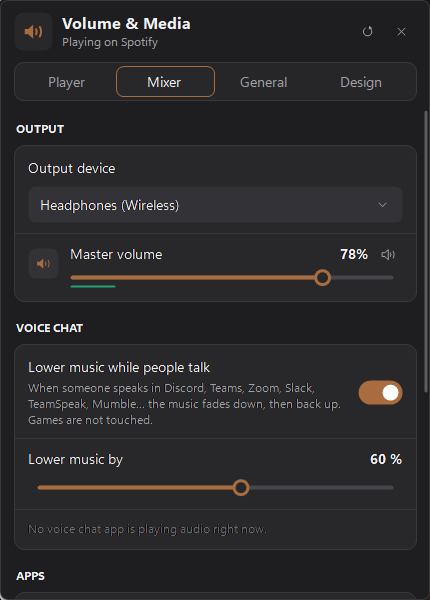
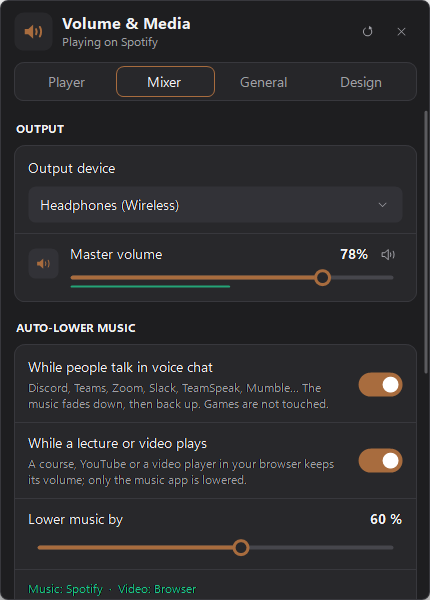
Study mode: music app wins over browser video, auto-lower music during lectures
- A dedicated music app (Spotify, Apple Music, Media Player, Tidal...) is always
  "the music" for the widget, even while a lecture/video plays in a browser, so
  scrolling and muting never touch the course audio.
- New "While a lecture or video plays" auto-lower option (on by default): the
  music fades down while browser/video-player audio plays, with a 4 s hold so
  pauses in speech don't pump the volume. Brief gaps fade back smoothly.
- Mixer tab: "Auto-lower music" card with both triggers and a status line.

diff --git a/src/Volume/AppAudio.cs b/src/Volume/AppAudio.cs
@@ -20,6 +20,7 @@ namespace TaskbarWidgets.Volume
         readonly Control ui;
         readonly Settings S;
         readonly Func<NowPlaying> current;
+        readonly Func<List<NowPlaying>> allMedia;
         List<AppSession> live = new List<AppSession>();
         bool busy;
         readonly Timer refresh = new Timer { Interval = 4000 };
@@ -30,15 +31,15 @@ namespace TaskbarWidgets.Volume
         float baseVol = 1f;       // the user's volume for it (what we restore to)
         float factor = 1f;        // current multiplier (1 = not lowered)
         float lastSet = -1f;      // what we last wrote, to notice the user changing it meanwhile
-        DateTime lastTalk = DateTime.MinValue;
+        DateTime lastTalk = DateTime.MinValue, lastVideo = DateTime.MinValue;
 
         static readonly string[] voiceApps = {
             "discord", "discordptb", "discordcanary", "vesktop", "ms-teams", "teams", "zoom", "slack", "skype", "telegram",
             "whatsapp", "signal", "mumble", "ts3client_win64", "ts3client_win32", "teamspeak", "webex", "ciscocollabhost", "guilded", "element", "ventrilo" };
 
-        public AppAudio(Control ui, Settings s, Func<NowPlaying> current)
+        public AppAudio(Control ui, Settings s, Func<NowPlaying> current, Func<List<NowPlaying>> allMedia)
         {
-            this.ui = ui; S = s; this.current = current;
+            this.ui = ui; S = s; this.current = current; this.allMedia = allMedia;
             refresh.Tick += (o, e) => Refresh();
             duckTimer.Tick += (o, e) => DuckTick();
         }
@@ -60,8 +61,8 @@ namespace TaskbarWidgets.Volume
                 var mu = Music;
                 Log.Info("volume", "sessions: " + string.Join(" | ", live.Select(x => x.Name + " [" + Path.GetFileName(x.ExePath ?? "") + "]")) +
                          " || media app=" + (np == null ? "-" : np.AppId) + " -> music=" + (mu == null ? "none" : mu.Name) +
-                         " || voice=" + string.Join(",", Voice.Select(x => x.Name)));
-                bool needDuck = S.Bool("duck", true) && Voice.Count > 0 && mu != null || duckKey != null;
+                         " || voice=" + string.Join(",", Voice.Select(x => x.Name)) + " || video=" + string.Join(",", Videos.Select(x => x.Name)));
+                bool needDuck = mu != null && (S.Bool("duck", true) && Voice.Count > 0 || S.Bool("duckVideo", true) && Videos.Count > 0) || duckKey != null;
                 if (needDuck && !duckTimer.Enabled) duckTimer.Start();
                 if (!needDuck && duckTimer.Enabled) duckTimer.Stop();
                 if (Changed != null) Changed();
@@ -114,6 +115,25 @@ namespace TaskbarWidgets.Volume
 
         public List<AppSession> Voice { get { return live.Where(IsVoice).ToList(); } }
 
+        /// <summary>Audio sessions of other media that is playing (a lecture or video in a browser, a video player...).</summary>
+        public List<AppSession> Videos
+        {
+            get
+            {
+                var music = current();
+                var res = new List<AppSession>();
+                if (music == null) return res;
+                var musicSession = Music;
+                foreach (var np in allMedia())
+                {
+                    if (!np.Playing || np.AppId == music.AppId || MediaManager.IsMusicApp(np.AppId)) continue;
+                    foreach (var s in live)
+                        if (Matches(s, np.AppId) && (musicSession == null || s.Key != musicSession.Key) && !res.Contains(s)) res.Add(s);
+                }
+                return res;
+            }
+        }
+
         // ---------------------------------------------------------------- user volume changes
 
         /// <summary>The music app's volume as the user set it (ignores our temporary ducking).</summary>
@@ -141,20 +161,28 @@ namespace TaskbarWidgets.Volume
         void DuckTick()
         {
             var music = Music;
-            var voice = Voice;
             var np = current();
-            bool enabled = S.Bool("duck", true) && music != null && voice.Count > 0 && !IsVoice(music);
-            if (!enabled || (duckKey != null && music != null && duckKey != music.Key)) { Restore(); if (!enabled) duckTimer.Stop(); return; }
+            var voice = S.Bool("duck", true) ? Voice : new List<AppSession>();
+            var videos = S.Bool("duckVideo", true) ? Videos : new List<AppSession>();
+            bool enabled = music != null && !IsVoice(music) && (S.Bool("duck", true) || S.Bool("duckVideo", true));
+            // hard stop only when the music app changed or the feature is off; a source disappearing just fades back up
+            if (!enabled || (duckKey != null && duckKey != music.Key)) { Restore(); if (!enabled) duckTimer.Stop(); return; }
+            if (voice.Count == 0 && videos.Count == 0 && duckKey == null) { duckTimer.Stop(); return; } // nothing to do; Refresh restarts us
 
+            bool musicPlaying = np != null && np.Playing;
             float peak = 0;
             foreach (var v in voice) peak = Math.Max(peak, v.LivePeak());
-            if (peak > 0.02f && np != null && np.Playing) lastTalk = DateTime.Now;
-            bool talking = (DateTime.Now - lastTalk).TotalMilliseconds < 1300;
+            if (peak > 0.02f && musicPlaying) lastTalk = DateTime.Now;
+            // lectures/videos: hold longer so short pauses between sentences don't pump the music up and down
+            float vpeak = 0;
+            foreach (var v in videos) vpeak = Math.Max(vpeak, v.LivePeak());
+            if (vpeak > 0.015f && musicPlaying) lastVideo = DateTime.Now;
+            bool talking = (DateTime.Now - lastTalk).TotalMilliseconds < 1300 || (DateTime.Now - lastVideo).TotalMilliseconds < 4000;
             float amount = Math.Max(0.1f, Math.Min(0.95f, S.Int("duckAmount", 60) / 100f));
             float target = talking ? 1f - amount : 1f;
             if (duckKey == null && target >= 1f) return; // idle
 
-            if (duckKey == null) { duckKey = music.Key; baseVol = music.LiveVolume(); factor = 1f; lastSet = -1f; }
+            if (duckKey == null) { duckKey = music.Key; baseVol = music.LiveVolume(); factor = 1f; lastSet = -1f; Log.Info("volume", "duck start: " + music.Name + " base=" + baseVol); }
             float cur = music.LiveVolume();
             // the user moved the app's slider (e.g. in the Windows mixer) while lowered: adopt it
             if (lastSet >= 0 && Math.Abs(cur - lastSet) > 0.02f) baseVol = Math.Min(1f, cur / Math.Max(0.05f, factor));
@@ -163,7 +191,7 @@ namespace TaskbarWidgets.Volume
             if (Math.Abs(factor - target) < 0.01f) factor = target;
             lastSet = baseVol * factor;
             music.SetVolume(lastSet);
-            if (factor >= 1f) { duckKey = null; lastSet = -1f; }
+            if (factor >= 1f) { duckKey = null; lastSet = -1f; Log.Info("volume", "duck end: restored " + baseVol); }
         }
 
         /// <summary>Puts a lowered app back to the user's volume (music app changed, feature turned off, app exit).</summary>

diff --git a/src/Volume/VolumeApp.cs b/src/Volume/VolumeApp.cs
@@ -41,7 +41,7 @@ namespace TaskbarWidgets.Volume
         {
             Audio = new Audio();
             Media = new MediaManager(this);
-            Apps = new AppAudio(this, S, () => Media.Current);
+            Apps = new AppAudio(this, S, () => Media.Current, () => Media.All);
             Apps.Changed += () => Poll();
             string lastApp = null;
             Media.Changed += () =>
@@ -596,15 +596,22 @@ namespace TaskbarWidgets.Volume
                 v => vw.SetVolume((int)Math.Round(v * 100)), vw.ToggleMute);
             ui.EndCard();
 
-            ui.Section("Voice chat");
+            ui.Section("Auto-lower music");
             ui.BeginCard();
-            ui.Toggle("Lower music while people talk", "When someone speaks in Discord, Teams, Zoom, Slack, TeamSpeak, Mumble... the music fades down, then back up. Games are not touched.",
-                S.Bool("duck", true), v => { S.Set("duck", v); if (!v) vw.Apps.Restore(); vw.Apps.Refresh(); });
-            if (S.Bool("duck", true))
+            ui.Toggle("While people talk in voice chat", "Discord, Teams, Zoom, Slack, TeamSpeak, Mumble... The music fades down, then back up. Games are not touched.",
+                S.Bool("duck", true), v => { S.Set("duck", v); vw.Apps.Restore(); vw.Apps.Refresh(); });
+            ui.Toggle("While a lecture or video plays", "A course, YouTube or a video player in your browser keeps its volume; only the music app is lowered.",
+                S.Bool("duckVideo", true), v => { S.Set("duckVideo", v); vw.Apps.Restore(); vw.Apps.Refresh(); });
+            if (S.Bool("duck", true) || S.Bool("duckVideo", true))
                 ui.Slider("Lower music by", null, S.Int("duckAmount", 60), 20, 90, "%", v => S.Set("duckAmount", v));
             var voice = vw.Apps.Voice;
-            ui.Label(voice.Count == 0 ? "No voice chat app is playing audio right now." : "Voice chat detected: " + string.Join(", ", voice.Select(x => x.Name).Distinct()),
-                F.Small, voice.Count == 0 ? T.Faint : T.Good);
+            var videos = vw.Apps.Videos;
+            var music = vw.Apps.Music;
+            string status = music == null ? "No music app is playing." : "Music: " + music.Name;
+            if (Demo.On) status = "Music: Spotify  ·  Video: Browser";
+            if (voice.Count > 0) status += "  \u00B7  Voice: " + string.Join(", ", voice.Select(x => x.Name).Distinct());
+            if (videos.Count > 0) status += "  \u00B7  Video: " + string.Join(", ", videos.Select(x => x.Name).Distinct());
+            ui.Label(status, F.Small, music == null && !Demo.On ? T.Faint : T.Good);
             ui.EndCard();
 
             ui.Section("Apps");

diff --git a/src/Volume/Media.cs b/src/Volume/Media.cs
@@ -99,8 +99,13 @@ namespace TaskbarWidgets.Volume
             {
                 NowPlaying np;
                 if (PinnedAppId != null && sessions.TryGetValue(PinnedAppId, out np)) return np;
+                // A music app (Spotify, Apple Music...) is "the music" even when a lecture/video plays in a browser
+                var music = sessions.Values.FirstOrDefault(s => s.Playing && IsMusicApp(s.AppId));
+                if (music != null) return music;
                 var playing = sessions.Values.FirstOrDefault(s => s.Playing);
                 if (playing != null) return playing;
+                var pausedMusic = sessions.Values.FirstOrDefault(s => IsMusicApp(s.AppId));
+                if (pausedMusic != null) return pausedMusic;
                 try
                 {
                     var cur = mgr == null ? null : mgr.GetCurrentSession();
@@ -258,6 +263,18 @@ namespace TaskbarWidgets.Volume
         }
 
         // ---------------------------------------------------------------- app names & icons
+
+        static readonly string[] musicApps = {
+            "spotify", "applemusic", "itunes", "zunemusic", "amazonmusic", "amazon.music", "deezer", "tidal", "qobuz", "pandora",
+            "soundcloud", "ytmdesktop", "youtube-music", "youtubemusic", "foobar2000", "musicbee", "aimp", "winamp", "dopamine",
+            "plexamp", "cider", "audacious", "clementine", "strawberry", "nuclear", "musescore", "napster", "anghami", "joox", "line music" };
+
+        /// <summary>Dedicated music players (not browsers or video players).</summary>
+        public static bool IsMusicApp(string aumid)
+        {
+            string a = (aumid ?? "").ToLowerInvariant();
+            return musicApps.Any(m => a.Contains(m));
+        }
 
         static string FriendlyApp(string aumid)
         {

diff --git a/README.md b/README.md
@@ -50,6 +50,7 @@ Two tiny native widgets that sit side by side, never cover your icons, and use a
 - Album art, seekable timeline, switch between players
 - **Scroll changes only the music app**, so your game keeps its volume (Shift = everything, Ctrl = voice chat)
 - **Music ducks while friends talk** in Discord, Teams, Zoom… then fades back
+- **Study mode**: music lowers while a lecture or video plays in your browser, and the course keeps its volume
 - **Per-app volume mixer** with live level meters, **switch output device** in one click
 
 </td>
@@ -108,7 +109,10 @@ Two tiny native widgets that sit side by side, never cover your icons, and use a
 | **Middle-click** / click the ♫ % | – | Mute / unmute the music app |
 
 > [!TIP]
-> **Gaming with music and voice chat?** The widget lowers only the music when you scroll, and while someone talks in Discord (or Teams, Zoom, Slack, TeamSpeak, Mumble…) it ducks the music automatically by 60%, then fades it back. Your game volume never changes. Set the amount in **Mixer → Voice chat**, or switch the scroll back to master volume in **General**.
+> **Studying with music?** Play a lecture or course video in your browser and the music app (Spotify, Apple Music…) lowers automatically while the teacher talks. The lecture's volume is never touched. Real music apps always count as "the music", even when a video is also playing.
+
+> [!TIP]
+> **Gaming with music and voice chat?** The widget lowers only the music when you scroll, and while someone talks in Discord (or Teams, Zoom, Slack, TeamSpeak, Mumble…) it ducks the music automatically by 60%, then fades it back. Your game volume never changes. Set the amount in **Mixer → Auto-lower music**, or switch the scroll back to master volume in **General**.
 
 **Position options:** *Next to Start button* · *Left side of taskbar* · *Next to clock / tray* · *Where I drag it*
 
